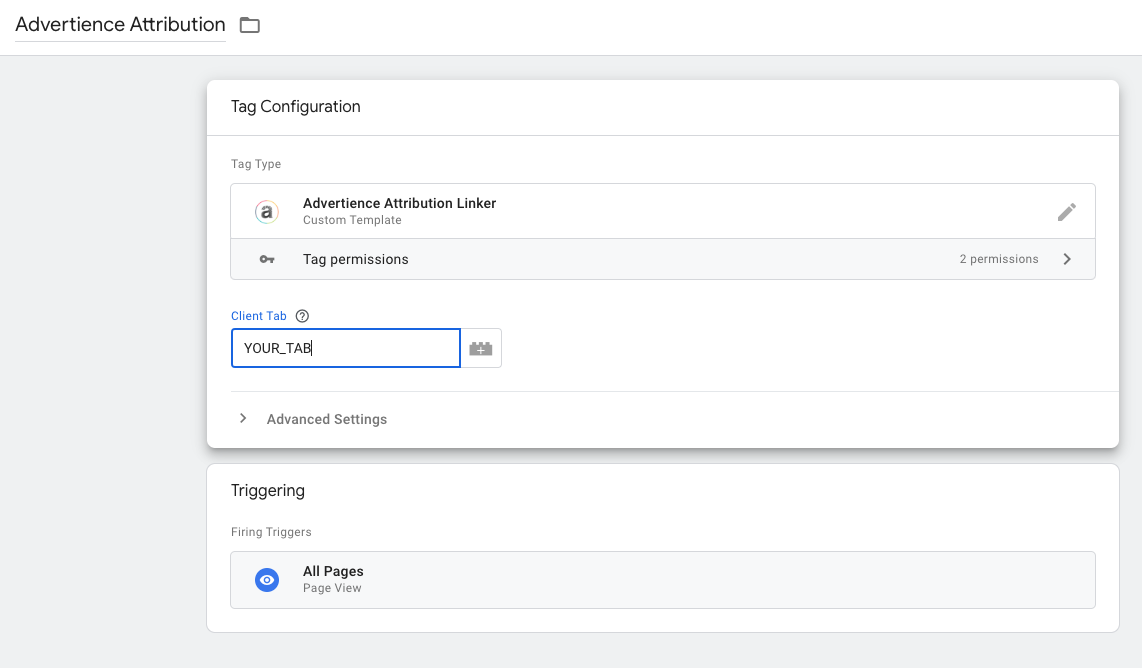
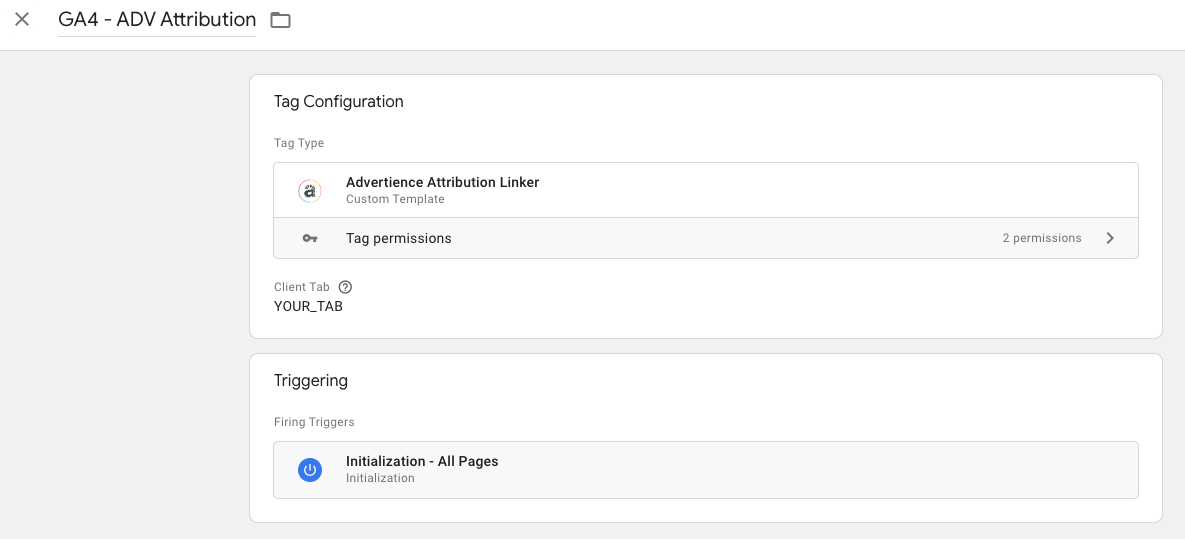
Update guide
Update the README.md guide to reflect new best practices

diff --git a/README.md b/README.md
@@ -14,7 +14,7 @@ This tag will add three variables to the dataLayer: `source`, `medium`, and `cam
 - Create a new tag
 - Choose `Advertience Attribution Linker` configuration from the Community Template Gallery
 - In `Client Tab`, write your Advertience Attribution client tab name
-- To use the attribution on all pages, it is recommended you use the `All Pages` trigger. Otherwise create a new trigger that fires on page view of the pages you want them to
+- To use the attribution on all pages, it is recommended you use the `Initialization - All Pages` trigger. Otherwise create a new trigger that fires on page view of the pages you want them to
 - Save the tag
 
 ![Example Attribution Tag](./images/AttributionTag.png)
@@ -29,7 +29,7 @@ You will need to create a variable for each of `source`, `medium`, and `campaign
 - In `Data Layer Variable Name`, write the appropriate choice of `source`, `medium`, or `campaign`
 - Save the variable and repeat until all three variables are created
 
-![Example Attribution Tag](./images/sourceVariable.png)
+![Example Source Variable](./images/sourceVariable.png)
 
 ### 3. Create `adv_pageview` custom event
 
@@ -41,10 +41,15 @@ You will need to create a variable for each of `source`, `medium`, and `campaign
 
 ![Example adv_pageview event](./images/adv_pageview.png)
 
-### 4. Edit your GA4 Configuration tag
+### 4. Set your two GA4 Configuration tags
 
 - Navigate to `Tags`
 - Click on your `Google Analytics: GA4 Configuration` tag
+- Change the name to `GA4 - Config (Init)`
+    - Note: All GA4 event tags should use this configuration tag
+- Change the trigger to `Initialization - All Pages`
+- Create a new tag, named `GA4 - Config (Attribution)`
+- For tag type, choose `Google Analytics: GA4 Configuration`
 - Open the `Fields to Set` section
 - Click the `Add Row` button three times to make space for the three new parameters
 - Enter in the `Field Name` rows: `campaign_source`, `campaign_medium`, and `campaign_name`
@@ -54,6 +59,18 @@ You will need to create a variable for each of `source`, `medium`, and `campaign
 
 ![Example GA4 Tag](./images/GA4Tag.png)
 
-After these steps have been taken, the tag should be working correctly, and the GA4 configuration tag will fire with the proper fields being set with the proper values.
+### 5. Set tag settings in GA4
+
+- Go to your GA4 property
+- Navigate to **Admin > Data Streams > [your data stream]**
+- Click on `Configure tag settings`
+- Click on your google tag
+- Under `Additional Settings` toggle OFF `Ignore duplicate instances of on-page configuration (recommended)`
+
+![Example GA4 Tag Settings](./images/GA4TagSettings.png)
+
+After these steps have been taken, the `GA4 - Config (Attribution)` tag will fire with the proper fields being set with the proper values.
+
+How it works is that when the `adv_pageview` event is fired, the `GA4 - Config (Attribution)` tag will fire and update the appropriate campaign parameters to be used by future GA4 event tags. This means that if you want a GA4 event tag that fires on page view to use the attribution, you must add the `adv_pageview` trigger to it rather than the usual `All Pages` trigger. This could be especially important for those tracking purchases.
 
 It is recommended you test the setup in preview mode to ensure it is working as expected.
